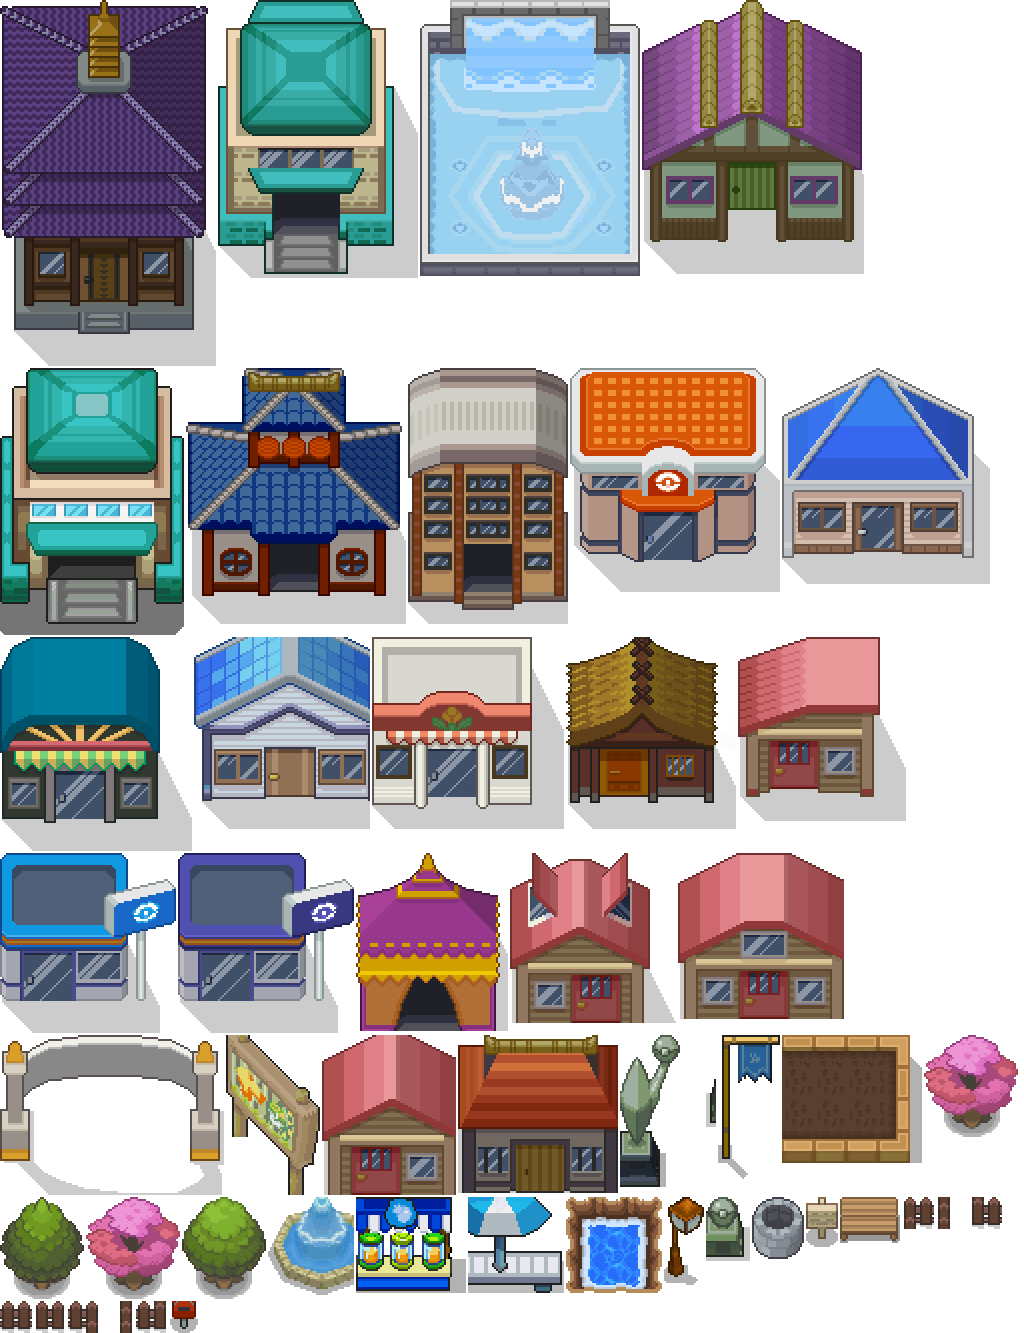
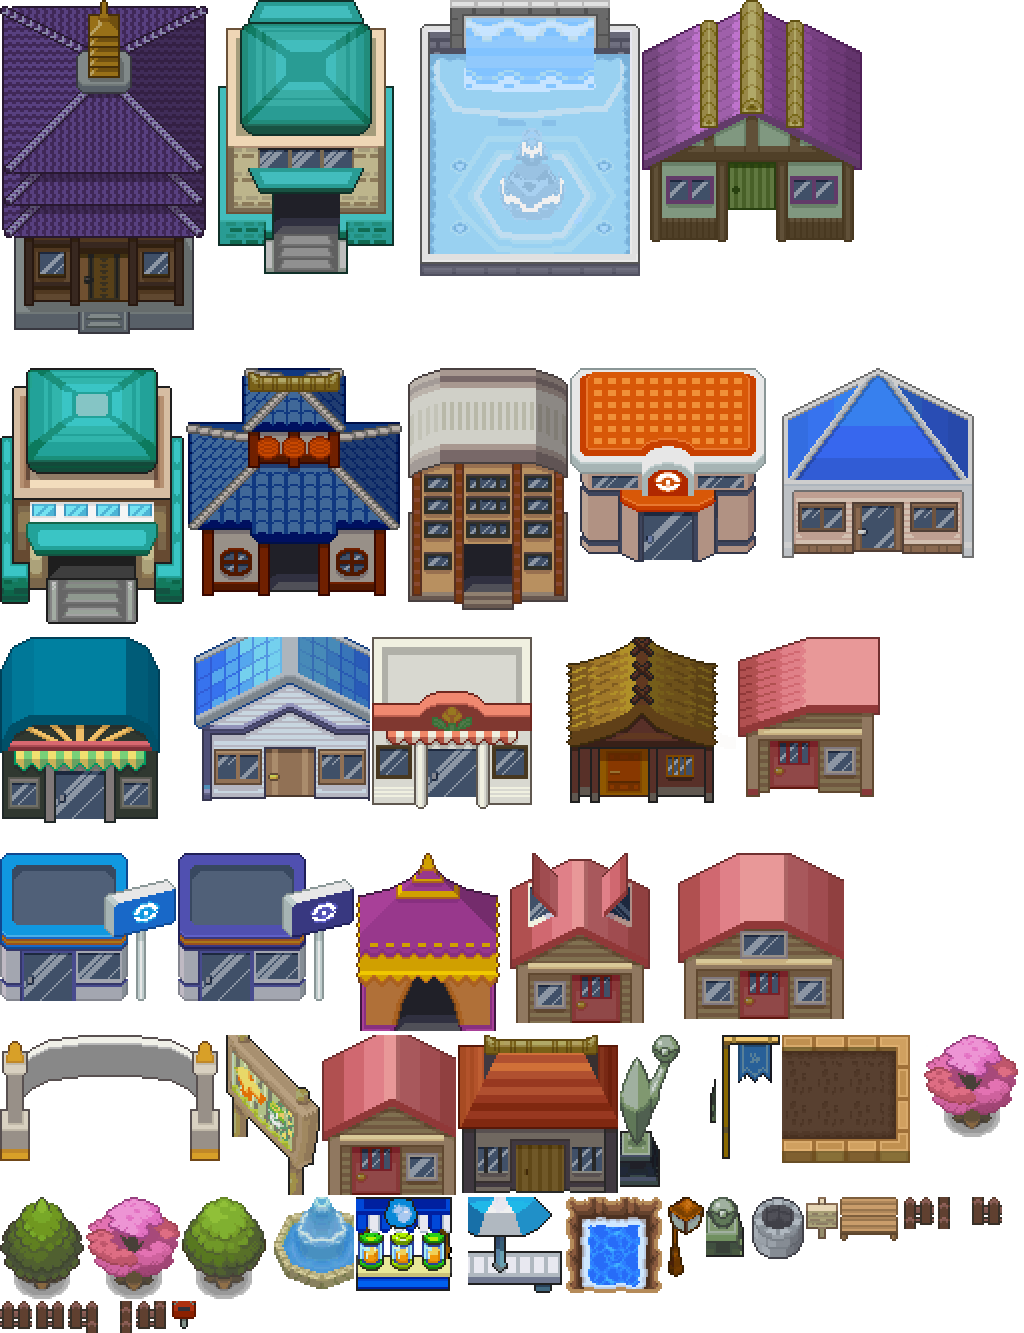
Hub Town: remove baked shadow boxes from props, lamp glow behind lamps
Claude-Session: https://claude.ai/code/session_01B8zAVDiFfy1iQghKTvZmpf

diff --git a/src/ui/hubTown/townTime.ts b/src/ui/hubTown/townTime.ts
@@ -34,7 +34,7 @@ export function drawDaylight(town: HubTownView, scene: Phaser.Scene, period: Per
       const x = px + w / 2;
       const y = py + 10;
       const pool = scene.add.ellipse(x, depth - 4, 4 * T, 1.4 * T, 0xffd890, 0.3).setBlendMode(Phaser.BlendModes.ADD).setDepth(9);
-      const halo = scene.add.circle(x, y, 24, 0xffe8a0, 0.65).setBlendMode(Phaser.BlendModes.ADD).setDepth(10 + depth + 1);
+      const halo = scene.add.circle(x, y, 22, 0xffe8a0, 0.3).setBlendMode(Phaser.BlendModes.ADD).setDepth(10 + depth - 1);
       if (motion === 'full') scene.tweens.add({ targets: [halo, pool], alpha: '-=0.12', duration: 1300 + lit * 110, yoyo: true, repeat: -1, ease: 'Sine.easeInOut' });
       lit++;
     }

diff --git a/tools/hubtown/build.py b/tools/hubtown/build.py
@@ -53,6 +53,17 @@ def stamp_img(n):
     ts, x, y, w, h = STAMPS[n]
     return TS[ts].crop((x, y, x + w, y + h))
 
+def drop_baked_shadow(im, n):
+    """The tileset bakes a hard-edged dark rectangle under every building; at the stamp edge it reads as a cut-off box
+    laid over the ground and neighbours (Kice 2026-11-06). Trees keep their soft ellipse; everything else loses it."""
+    if n in TREES: return im
+    im = im.copy(); px = im.load()
+    for yy in range(im.height):
+        for xx in range(im.width):
+            r, g, b, a = px[xx, yy]
+            if 0 < a <= 140 and max(r, g, b) <= 80: px[xx, yy] = (0, 0, 0, 0)
+    return im
+
 def footprint(n, px, py):
     """Solid tiles of a stamp placed with its top-left at (px, py) map pixels."""
     if n in WALKABLE: return []
@@ -328,7 +339,7 @@ for n in items:
     if x + w > SHEET_W: x = 0; y += shelf + 2; shelf = 0
     frames[n] = (x, y, w, h); x += w + 2; shelf = max(shelf, h)
 sheet = Image.new('RGBA', (SHEET_W, y + shelf))
-for n, (fx, fy, w, h) in frames.items(): sheet.alpha_composite(stamp_img(n), (fx, fy))
+for n, (fx, fy, w, h) in frames.items(): sheet.alpha_composite(drop_baked_shadow(stamp_img(n), n), (fx, fy))
 sheet.save(os.path.join(OUT_IMG, 'hubtown_props.png'), optimize=True)
 json.dump({'frames': {n: {'frame': {'x': fx, 'y': fy, 'w': w, 'h': h}} for n, (fx, fy, w, h) in frames.items()},
            'meta': {'image': 'hubtown_props.png', 'size': {'w': SHEET_W, 'h': y + shelf}, 'scale': '1'}},

diff --git a/docs/status/hubtown-glitch-fix.md b/docs/status/hubtown-glitch-fix.md
@@ -1,0 +1,9 @@
+# Hub Town glitch fix (2026-11-06)
+
+Kice: random assets in Hub Town look cut off or layered over others.
+
+Cause found: the tileset bakes a hard-edged dark shadow rectangle into every building/prop stamp, so each building had a box laid over the ground and its neighbours; and the lamp glow disc was drawn on top of the lamp.
+
+Fix: `tools/hubtown/build.py` now drops those baked shadow pixels (trees keep their soft shadow) and the committed `hubtown_props.png` was cleaned the same way; lamp glow is drawn behind the lamp at lower strength (`townTime.ts`).
+
+Known limit: buildings now have no ground shadow. Before/after: project files `shots/hubtown-glitch/`.
